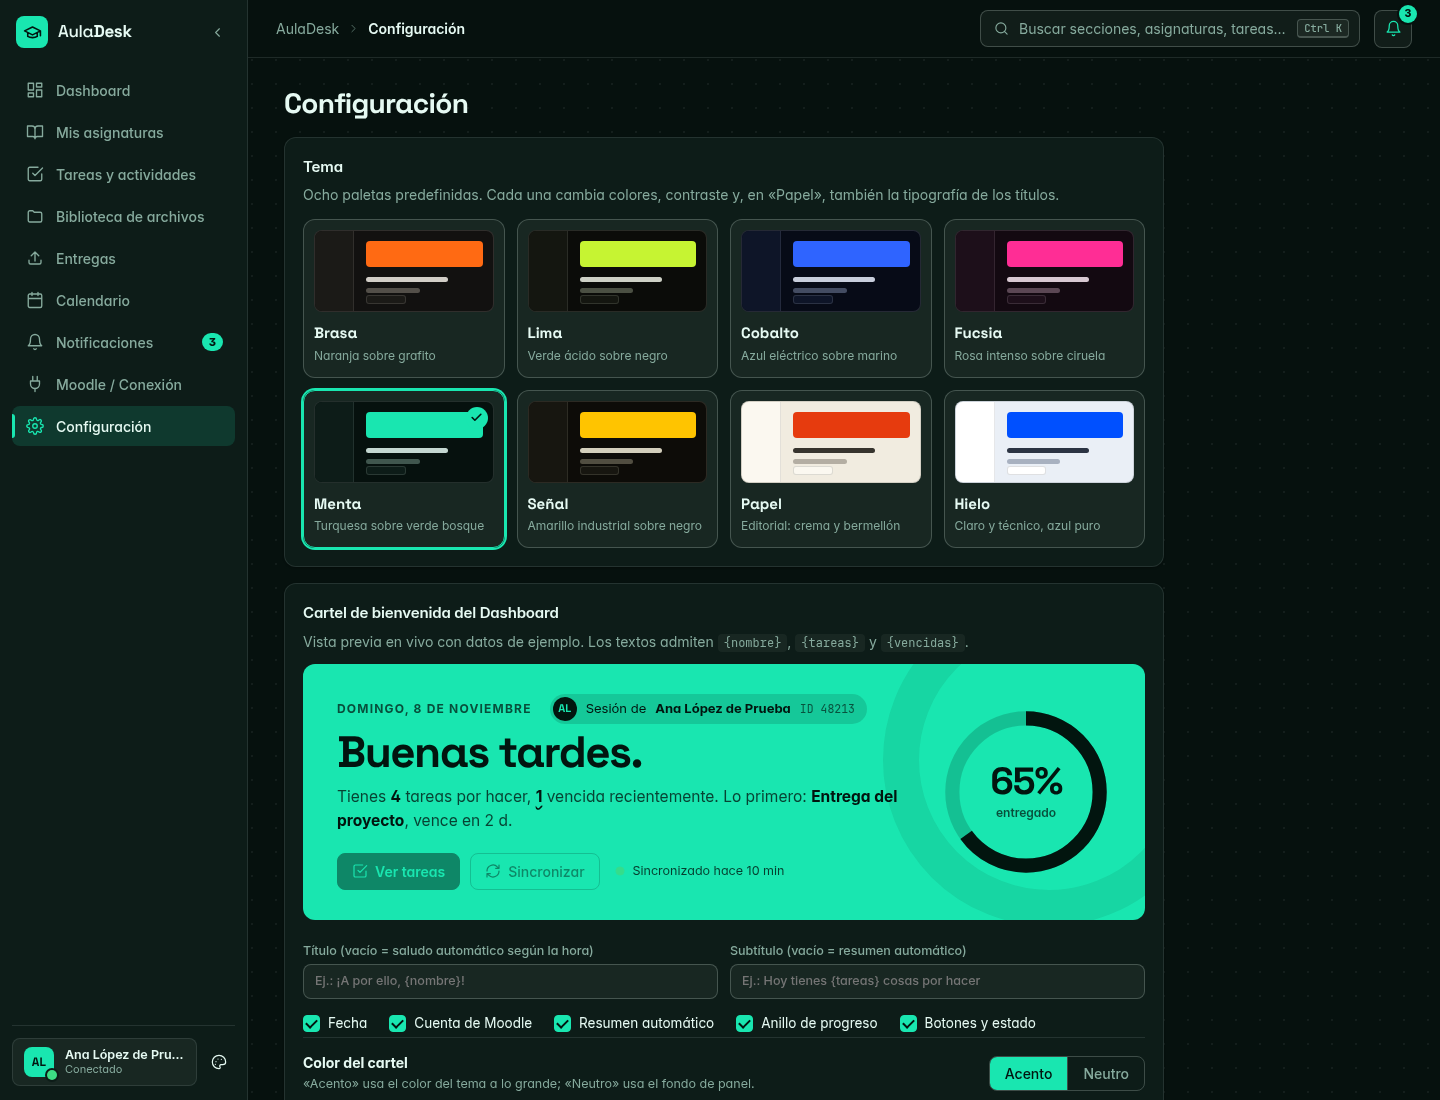
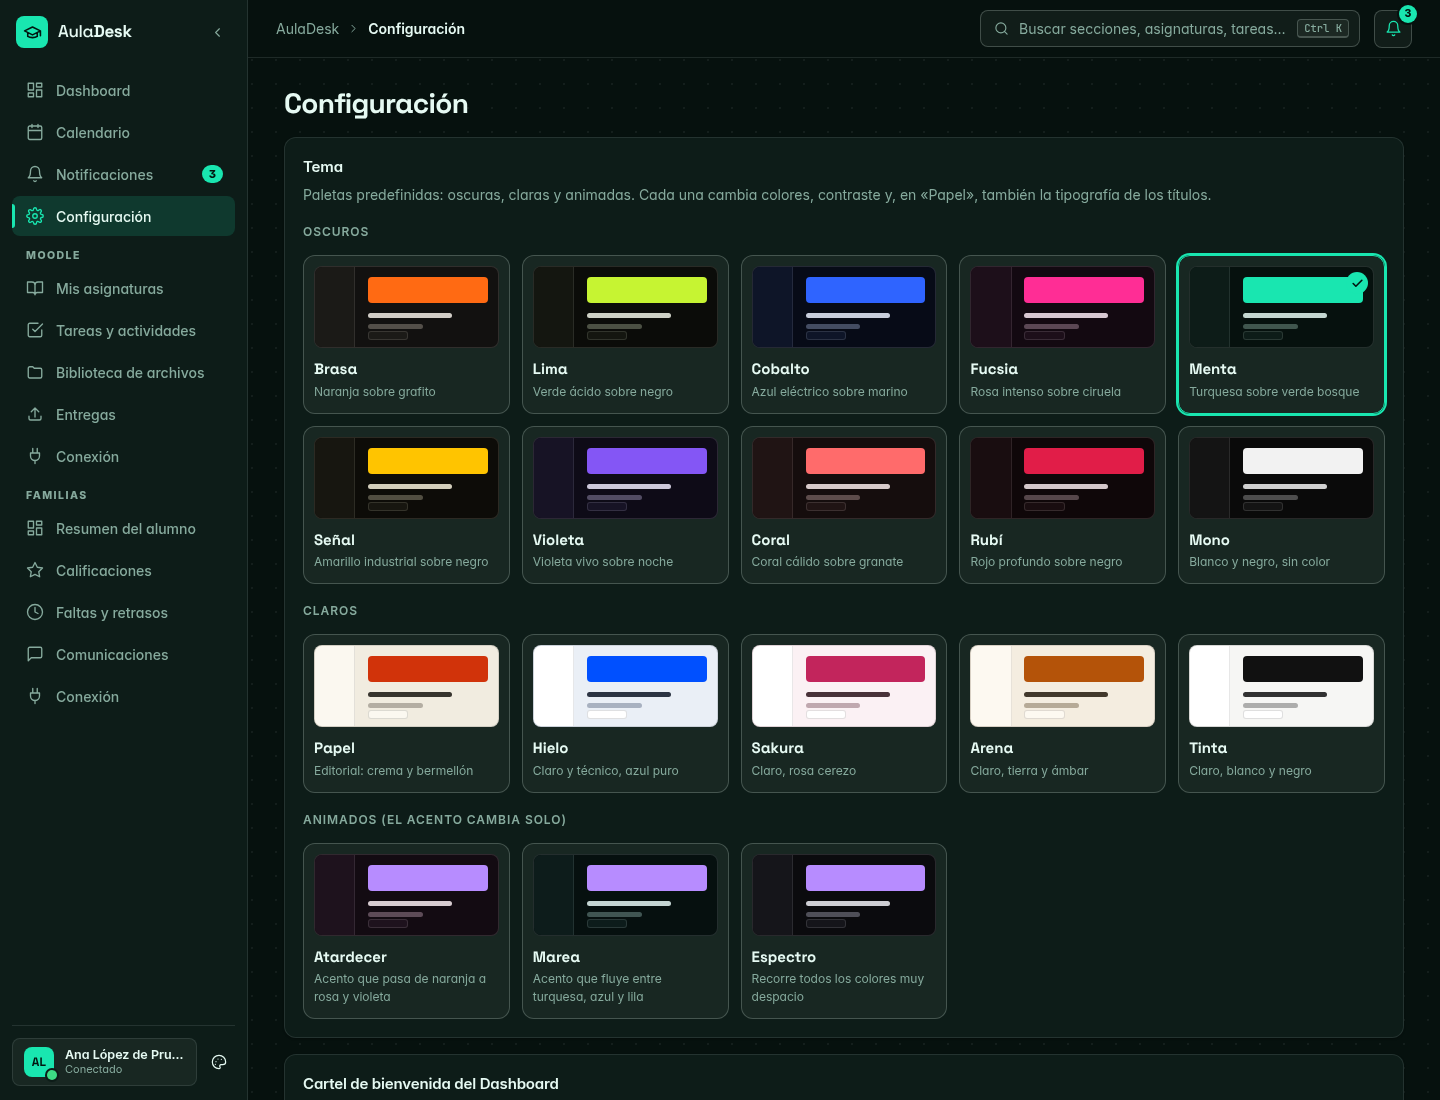
Actualizar la documentación a la 0.3.1 y renovar las capturas (con sección de Familias)

diff --git a/README.md b/README.md
@@ -1,12 +1,12 @@
 # AulaDesk
 
-Cliente de escritorio, **personal y de solo lectura**, para plataformas [Moodle](https://moodle.org): reúne tus tareas, fechas límite, archivos y avisos en una aplicación local rápida, y te ayuda a **preparar y comprobar entregas sin enviar nada por ti**.
+Cliente de escritorio y **personal** para plataformas [Moodle](https://moodle.org) y para el portal de familias del centro: reúne tareas, fechas límite, archivos, calificaciones, faltas y avisos en una aplicación local rápida, y te ayuda a **preparar y comprobar entregas sin enviar nada por ti**. Lo único que puede enviar es tu entrega, con confirmación explícita.
 
 > AulaDesk es un proyecto independiente. **No está afiliado, patrocinado ni respaldado por Moodle Pty Ltd, Moodle HQ ni la Junta de Andalucía.** «Moodle» es una marca de sus titulares.
 
 ![Dashboard](docs/img/dashboard.png)
 
-*Capturas con datos de ejemplo (nombre y tareas ficticios).*
+*Capturas de la versión 0.3.1 con datos de ejemplo (nombres, alumnado, centro y tareas ficticios).*
 
 ## Qué hace
 
@@ -19,7 +19,8 @@ Cliente de escritorio, **personal y de solo lectura**, para plataformas [Moodle]
 - **Sincronización automática** cada 10 min–12 h con avisos de tareas nuevas, cambios de fecha y notas; con bandeja del sistema para seguir en segundo plano.
 - **Cartel de bienvenida** del Dashboard totalmente personalizable y animación de bienvenida al iniciar sesión.
 - **Calendario y avisos**: eventos derivados de las fechas reales, recordatorios configurables (también con la app cerrada mediante un servicio de usuario opcional).
-- **Familias (PASEN/iPasen)**: alumnado, calificaciones, faltas y comunicaciones del portal, de solo lectura y con tu propia sesión (sin guardar contraseña); la sesión se conserva y se mantiene viva mientras la app está abierta.
+- **Familias (PASEN/iPasen)**: alumnado, calificaciones, faltas y retrasos y comunicaciones del portal, por alumno y con tu propia sesión (sin guardar contraseña); la sesión se conserva y se mantiene viva mientras la app está abierta. Las acciones de escritura (justificar una falta, pedir tutoría, mensaje) exigen confirmación explícita y quedan «no disponibles» mientras no haya una receta verificada contra el portal.
+- **Base de datos cifrada** con SQLCipher (clave en el llavero del sistema) y **copia opcional en una carpeta sincronizada** (Google Drive para escritorio, OneDrive, Dropbox…).
 - **Sincronización rápida y opcional al iniciar**: Moodle lee sin renderizar y solo relee lo que puede haber cambiado; Moodle y Familias se sincronizan a la vez.
 - **Apariencia y accesibilidad**: 18 temas (algunos animados), efectos con ecualizador real (Linux), pantallas de bienvenida, español/inglés, alto contraste, densidad y tamaño; paleta de comandos `Ctrl+K`.
 
@@ -30,6 +31,11 @@ Cliente de escritorio, **personal y de solo lectura**, para plataformas [Moodle]
 ### Entregar desde la app (beta) y visor integrado
 ![Entrega](docs/img/entrega.png)
 ![Visor](docs/img/visor.png)
+
+### Familias
+![Resumen del alumno](docs/img/familias-resumen.png)
+![Calificaciones](docs/img/familias-calificaciones.png)
+![Faltas y retrasos](docs/img/familias-faltas.png)
 
 ### Temas y personalización
 ![Temas](docs/img/temas.png)
@@ -44,7 +50,7 @@ Cliente de escritorio, **personal y de solo lectura**, para plataformas [Moodle]
 
 ## Estado y límites
 
-Proyecto personal en desarrollo (`v0.1`), **desarrollado y probado contra una instancia concreta** (Moodle 5.x de la Junta de Andalucía, tema «moove»): la URL base y los selectores están fijados en ese entorno (`src-tauri/src/moodle/`, `src-tauri/selectors/bridge.js`). Adaptarlo a otra instalación exige tocar esas constantes y revalidar los selectores. Lo verificado y lo **no** verificado está listado con honestidad en [`PROGRESS.md`](PROGRESS.md).
+Proyecto personal en desarrollo (`v0.3.1`), **desarrollado y probado contra instancias concretas** (Moodle 5.x de la Junta de Andalucía, tema «moove», y su portal de familias): las URL base y los selectores están fijados en ese entorno (`src-tauri/src/moodle/`, `src-tauri/src/familias/`, `src-tauri/selectors/`). Adaptarlo a otra instalación exige tocar esas constantes y revalidar los selectores. En Familias, la tabla de notas solo se ha visto vacía (sin datos reales) y el portal solo muestra el perfil activo de la cuenta. Lo verificado y lo **no** verificado está listado con honestidad en [`PROGRESS.md`](PROGRESS.md).
 
 Probado en Linux (Arch, Hyprland/Wayland). **Windows y macOS: la configuración de compilación está preparada pero no se ha probado**; allí las notificaciones de escritorio y el servicio en segundo plano (que usan `notify-send` y `systemd`) no están disponibles todavía.
 
@@ -73,7 +79,8 @@ Requisitos: Rust estable, Node.js 20+, dependencias de Tauri 2 para Linux (WebKi
 ```bash
 npm install
 npm run check                      # tipos de Svelte
-(cd src-tauri && cargo test --lib) # 65 pruebas
+npm test                           # 29 pruebas de interfaz (temas, i18n, loader)
+(cd src-tauri && cargo test --lib) # 126 pruebas
 npx tauri build --debug --no-bundle
 ./src-tauri/target/debug/auladesk
 ```
@@ -84,7 +91,7 @@ Variables de desarrollo: `AULADESK_DATA_DIR` (carpeta de datos alternativa, úti
 
 ## Arquitectura
 
-Tauri 2 (Rust) + Svelte 5 + SQLite. Resumen en [`docs/ARCHITECTURE.md`](docs/ARCHITECTURE.md); base de datos en [`docs/DATABASE.md`](docs/DATABASE.md); integración con Moodle en [`docs/MOODLE_INTEGRATION.md`](docs/MOODLE_INTEGRATION.md).
+Tauri 2 (Rust) + Svelte 5 + SQLite cifrada (SQLCipher). Resumen en [`docs/ARCHITECTURE.md`](docs/ARCHITECTURE.md); base de datos en [`docs/DATABASE.md`](docs/DATABASE.md); integración con Moodle en [`docs/MOODLE_INTEGRATION.md`](docs/MOODLE_INTEGRATION.md).
 
 ## Licencia
 

diff --git a/docs/LEGAL.md b/docs/LEGAL.md
@@ -11,7 +11,7 @@ Publicarlo como proyecto **independiente, gratuito, de código abierto, local y 
 | Elemento | Qué dice la fuente | Riesgo | Solución |
 |---|---|---|---|
 | «Moodle» | Prohibido sin permiso escrito usarlo en el **nombre del software (incluidas apps)**, empresa o dominio, y en uso comercial; **permitido** el uso descriptivo/nominativo: describir software propio que **se integra con** Moodle. Contacto de dudas: `trademarks@moodle.com`. | Bajo con el nombre actual (**AulaDesk**, no lleva «Moodle»). Medio por restos: carpeta/repo/BD llamados `moodledesk` y el servicio de llavero `moodledesk`. | Nombre público = AulaDesk. Usar «Moodle» solo para describir la integración («compatible con Moodle»). No usar logotipos de Moodle. Mantener el aviso de no afiliación (ya está en el README). Renombrar el repo/carpeta si se publica con ese nombre; los identificadores internos (BD, llavero) pueden quedar por compatibilidad (no son marca visible). Opcional: escribir a `trademarks@moodle.com` para confirmar. |
-| «PASEN», «iPasen», «Séneca» | El aviso legal de la Junta prohíbe reproducir **logotipos, escudos, símbolos y marcas identificativas** sin autorización expresa y exige no sugerir que la Junta apoya el uso. No he podido comprobar si «PASEN/iPasen/Séneca» están registrados como marca en la OEPM *(no verificado)*. | Medio si se usan como nombre o logotipo; bajo si solo se mencionan de forma descriptiva. | **Renombrar la sección en la interfaz** (decisión de Adrián): **«Familias»** (portal de familias del centro) en lugar de PASEN/iPasen, y **«Docentes»** para iSéneca (hoy «no disponible»). Mencionar PASEN/Séneca solo en la documentación, como texto descriptivo y con aviso de no afiliación. No usar logos, colores corporativos ni capturas del portal con su cabecera. Consultar el localizador de marcas de la OEPM antes de publicar. |
+| «PASEN», «iPasen», «Séneca» | El aviso legal de la Junta prohíbe reproducir **logotipos, escudos, símbolos y marcas identificativas** sin autorización expresa y exige no sugerir que la Junta apoya el uso. No he podido comprobar si «PASEN/iPasen/Séneca» están registrados como marca en la OEPM *(no verificado)*. | Medio si se usan como nombre o logotipo; bajo si solo se mencionan de forma descriptiva. | **Renombrar la sección en la interfaz** (decisión de Adrián): **«Familias»** (portal de familias del centro) en lugar de PASEN/iPasen. El módulo «Docentes» (iSéneca) se eliminó del código el 2026-11-11. Mencionar PASEN/Séneca solo en la documentación, como texto descriptivo y con aviso de no afiliación. No usar logos, colores corporativos ni capturas del portal con su cabecera. Consultar el localizador de marcas de la OEPM antes de publicar. |
 | Logotipo/escudo de la Junta | Prohibido sin autorización | Alto si aparece | No incluir ninguno (ni en iconos, ni capturas, ni web). Comprobar que `docs/img/*` y `src-tauri/icons/*` no los contienen. |
 
 ## 3. Derechos de autor y datos de terceros
@@ -62,7 +62,7 @@ SQLCipher/OpenSSL son criptografía de uso general de código abierto; publicar 
 7. No implementar escritura (justificar faltas, calificar) sin autorización expresa.
 
 ## 8. Lista de comprobación antes de publicar
-- [ ] Nombre y textos de la UI: «Familias» / «Docentes»; PASEN/Séneca solo en docs, con aviso de no afiliación.
+- [ ] Nombre y textos de la UI: «Familias»; PASEN/Séneca solo en docs, con aviso de no afiliación.
 - [ ] Sin logos ni colores corporativos de la Junta/Moodle; revisar `docs/img`, iconos y README.
 - [ ] README con aviso: independiente, no afiliado, uso bajo responsabilidad del usuario, solo con tus propias credenciales y acceso legítimo.
 - [ ] `PRIVACY.md` + `THIRD_PARTY_NOTICES.md` + aviso en «Acerca de».

diff --git a/docs/SECURITY.md b/docs/SECURITY.md
@@ -10,3 +10,9 @@
 - Equivalen a una sesión abierta hasta 8 h de inactividad (límite del servidor). Se restauran únicamente en el WebView de AulaDesk. «Cerrar sesión y olvidarla» hace logout en Moodle, borra las cookies locales y el secreto; desactivar «Mantener la sesión» borra el secreto.
 - Si el llavero no está disponible, la sesión simplemente no se guarda (no hay alternativa en claro).
 - El canal de desarrollo (`AULADESK_DEV_CTL=1`) permite navegar/volcar/descargar en la sesión desde un fichero; está apagado por defecto y solo acepta rutas de Moodle. No activar fuera de pruebas.
+
+## Base de datos cifrada y Familias (2026-11)
+- La BD está cifrada con SQLCipher; la clave aleatoria vive en el llavero del sistema, nunca en disco ni en logs. No ejecutes un binario nuevo con `AULADESK_DATA_DIR` distinto sin saber que comparte esa entrada del llavero.
+- Familias tiene su propio webview oculto, su almacén de cookies y su entrada de llavero, separados de Moodle. Navegación limitada a `*.juntadeandalucia.es` y un único comando remoto (`ingest_familias`), validado contra un contrato de datos; una extracción inválida se rechaza entera.
+- Todo dato de Familias lleva `student_id` y cada comando valida el alumno contra la cuenta. Desvincular borra los datos de la cuenta.
+- No se leen valores de la ficha del alumno (DNI, Seguridad Social). Las acciones de escritura exigen confirmación explícita y dejan registro.

diff --git a/docs/ROADMAP.md b/docs/ROADMAP.md
@@ -1,3 +1,5 @@
 # Roadmap
-0 Investigación ✔ (parcial: pendiente probar descarga y extracción con sesión real) · 1 Fundación ✔ · 2 Auth/Moodle · 3 Biblioteca · 4 Actividades/entregas · 5 Calendario/notificaciones · 6 Dashboard · 7 Optimización.
-Cada fase deja la app ejecutable. Criterios de aceptación 1–15 del encargo: ver PROGRESS.md.
+Hecho: 0 Investigación · 1 Fundación · 2 Auth/Moodle · 3 Biblioteca · 4 Actividades y entregas · 5 Calendario y notificaciones · 6 Dashboard · 7 Optimización (lectura sin renderizar, refresco por niveles) · BD cifrada · copia en carpeta sincronizada · Familias (v0.3.0) · temas, accesibilidad, ES/EN y ecualizador (v0.3.x).
+
+Pendiente (ver PROGRESS.md): probar Windows y macOS en ejecución; firmar los instaladores; tabla de notas de Familias con datos reales; varios alumnos en una misma cuenta; eventos/tutorías, tablón y cuerpo de mensajes de Familias; reemplazar una entrega ya existente y el paso «Enviar tarea» en Moodle real; fechas de cuestionarios/exámenes.
+Descartado: iSéneca/Docentes (módulo eliminado) y la conexión directa con Google Drive (se sustituyó por la carpeta sincronizada).

diff --git a/PROGRESS.md b/PROGRESS.md
@@ -1,7 +1,7 @@
 > Diario de desarrollo (primera persona, en orden cronológico). Las pruebas contra Moodle se hicieron con la cuenta del autor; no se incluyen datos personales.
 
 # PROGRESS
-**Fase actual:** 5 completada y verificada en lo esencial; 6 con backend hecho y probado (59 tests) pero SIN interfaz; 7 sin empezar. Actualizado 2026-11-07. Sesión persistente hecha. Actualizado 2026-11-07.
+**Estado actual (2026-11-12): versión 0.3.1.** Moodle (fases 0–6), cifrado de la BD, copia en carpeta sincronizada, entregas desde la app, integración de Familias con datos reales y sincronización conjunta están hechos y probados en Linux (126 tests Rust, 29 de interfaz, svelte-check sin errores). La lista de lo no verificado está en cada sección y resumida en el README. Las secciones siguientes son el diario cronológico: lo antiguo se conserva como se escribió.
 
 ## Hecho (verificado)
 - Proyecto Tauri 2.12 + Svelte 5 compila (`npm run build`, `svelte-check` 0 errores, `tauri build --debug --no-bundle`).
